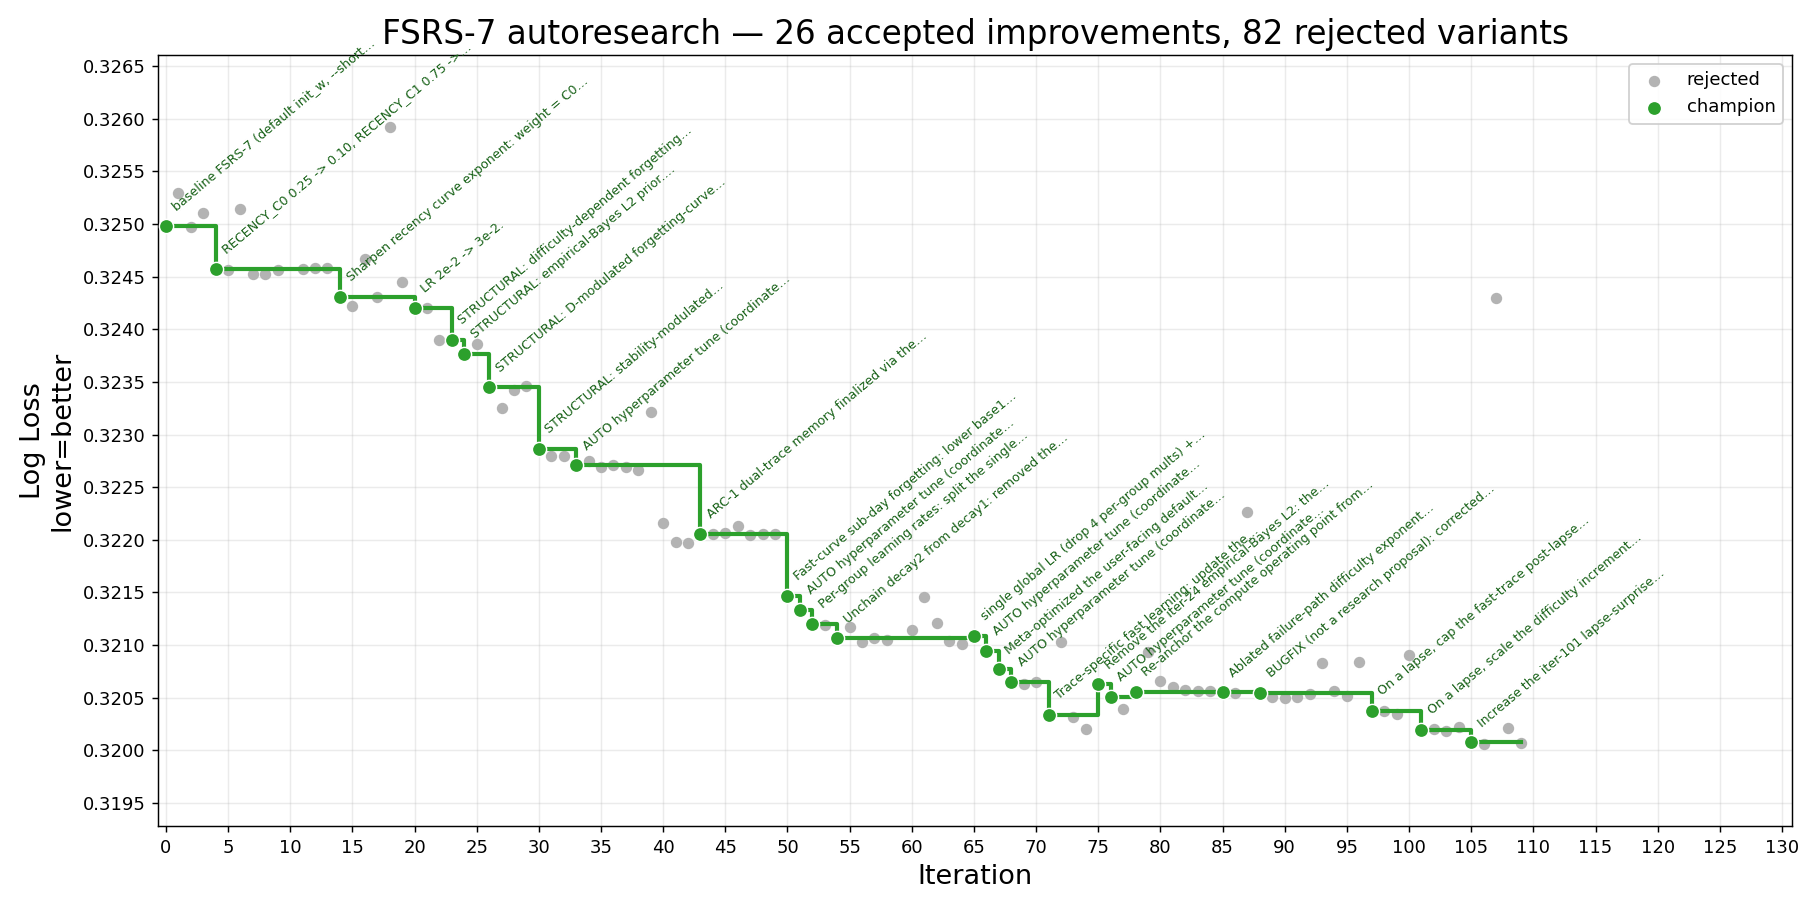
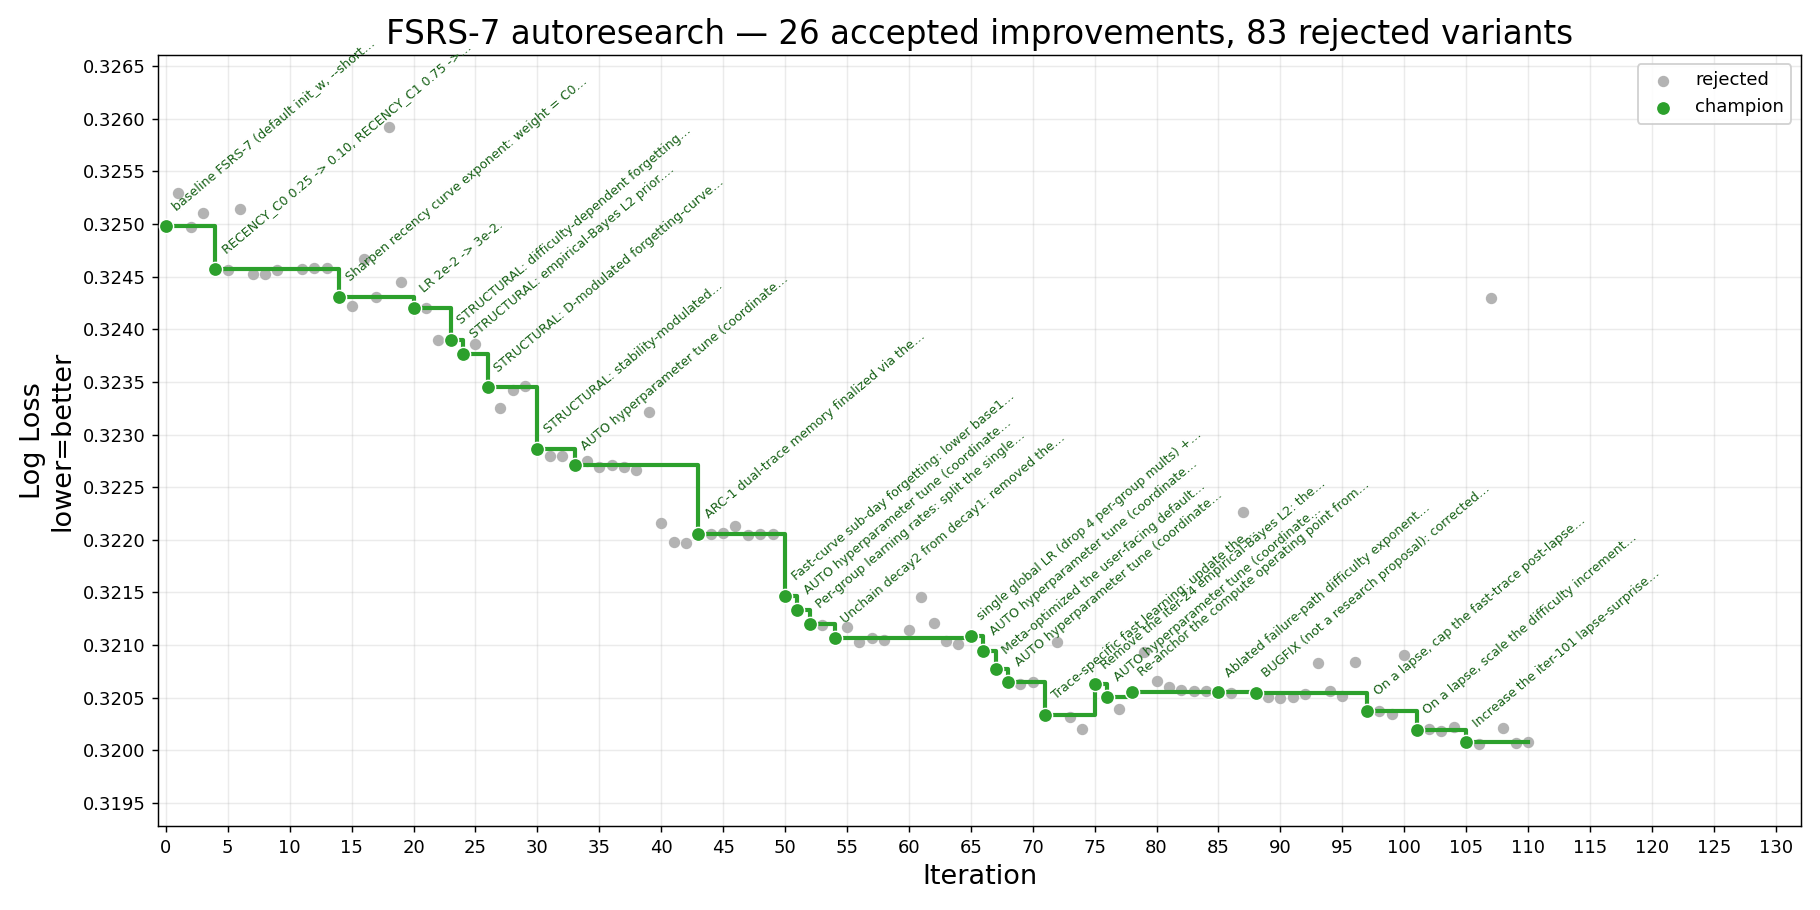
iter 110 (rejected): additive overdue-success ease-credit (D down on low-R recalls) -- near-exact tie (+4e-7), success-side surprise washes

diff --git a/result/history.md b/result/history.md
@@ -1,6 +1,6 @@
 # FSRS-7 autoresearch — iteration history
 
-_109 record(s). Generated from `history.jsonl` — do not edit by hand._
+_110 record(s). Generated from `history.jsonl` — do not edit by hand._
 
 | # | Time (UTC) | Thresh. | LL before | LL after | Δ LL | Cx before | Cx after | Δ Cx % | Status | Summary |
 |--:|---|---:|---:|---:|---:|---:|---:|---:|---|---|
@@ -113,3 +113,4 @@ _109 record(s). Generated from `history.jsonl` — do not edit by hand._
 | 107 | 2026-06-04T06:27:52 | 0.0001 | 0.32008 | 0.32430 | -0.00422 | 16,930 | 16,986 | +0.33% | rejected | On a same-day review (elapsed_time < 1 day) freeze the slow trace at its pre-review value; fast trace and difficulty still update. |
 | 108 | 2026-06-04T06:36:35 | 0.0001 | 0.32008 | 0.32021 | -0.00014 | 16,930 | 16,950 | +0.12% | rejected | Down-weight the slow forgetting-curve component for low-stability (fresh) cards via a (1-exp(-s/0.1)) consolidation-onset gate on weight2. |
 | 109 | 2026-06-04T07:03:39 | 0.0001 | 0.32008 | 0.32007 | +0.00001 | 16,930 | 16,930 | +0.00% | rejected | AUTO hyperparameter tune (coordinate descent over training hyperparameters (LR/betas/L2/recency C0+EXP)): best candidate BETA2 0.9913->0.9942. |
+| 110 | 2026-06-04T07:11:39 | 0.0001 | 0.32008 | 0.32008 | +0.00000 | 16,930 | 16,946 | +0.09% | rejected | On a successful review (rating>1) subtract 1.0*max(0.9-retention,0) from delta_d, so overdue (low-R) recalls lower difficulty (additive, affects Good). |
